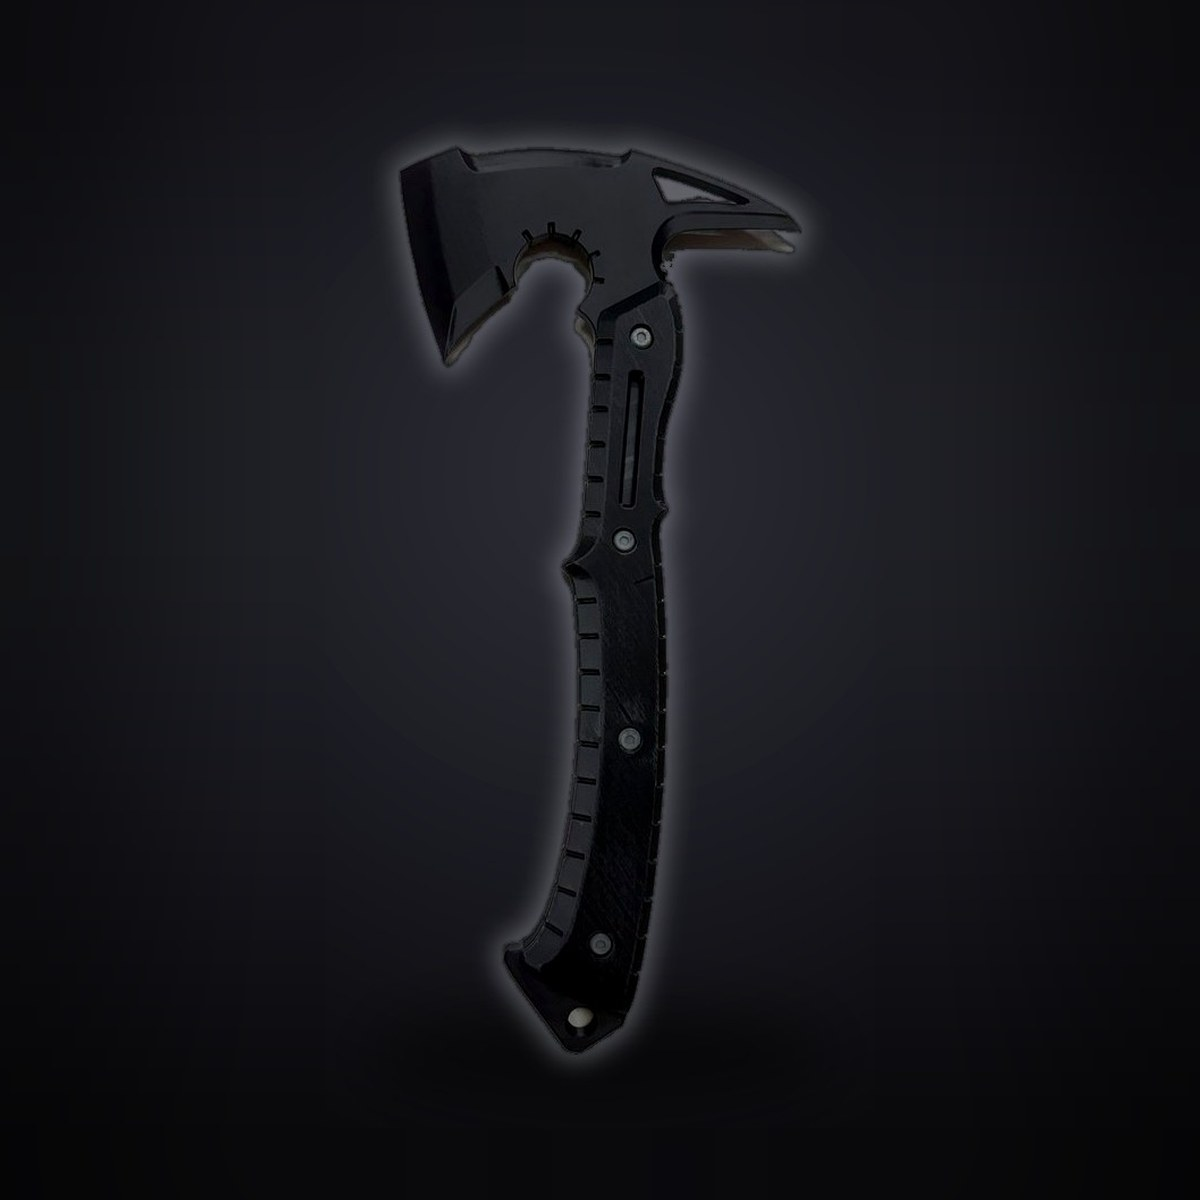
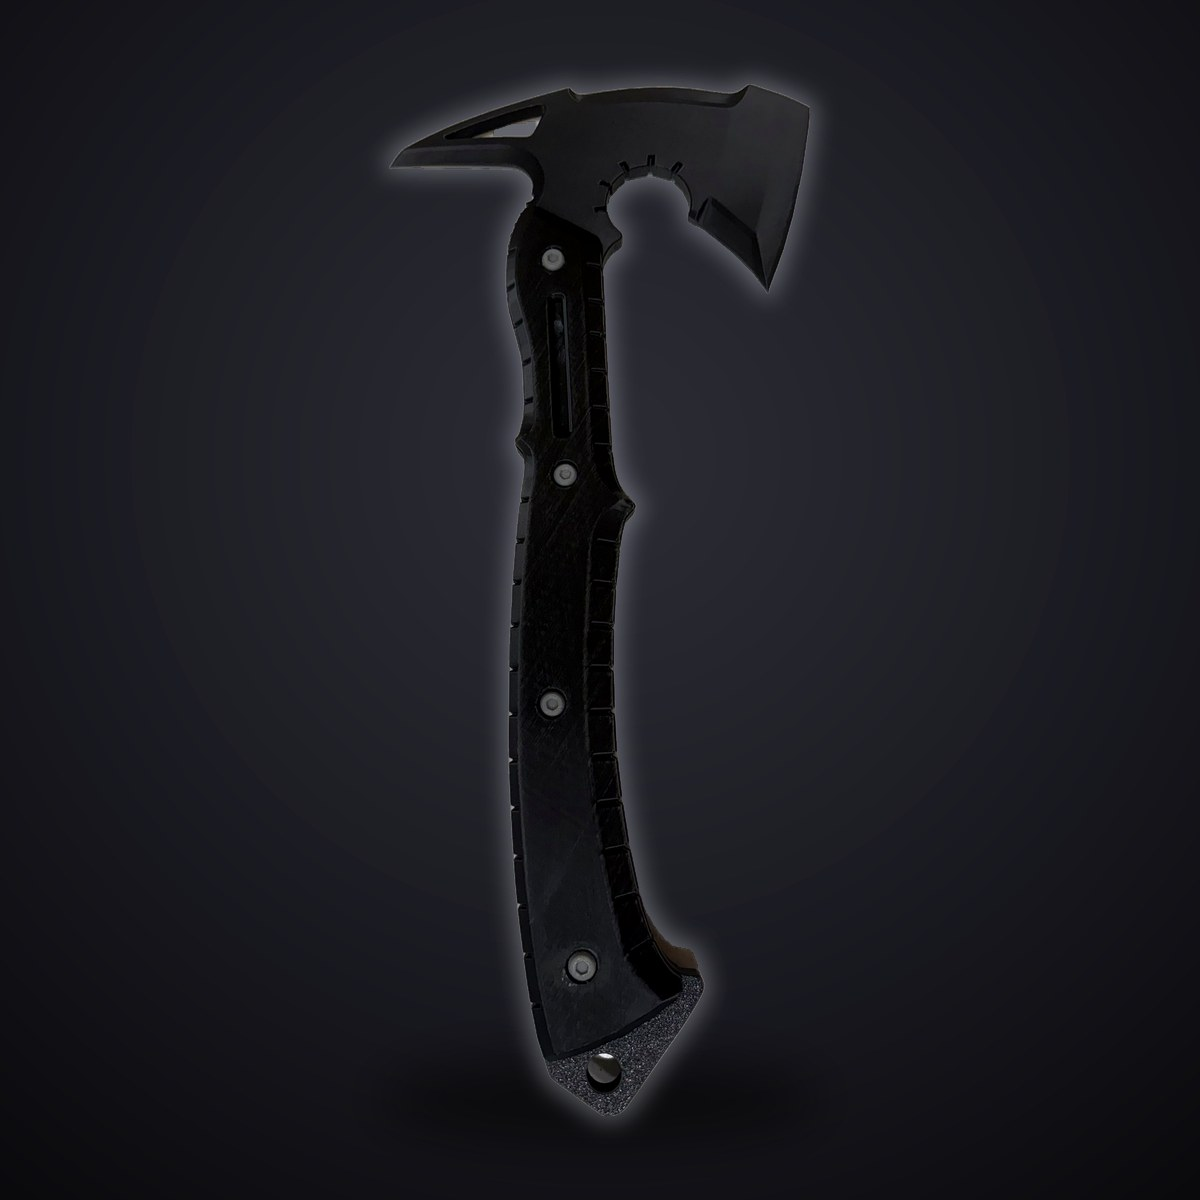
Adiciona ninja e Banguela &amp; Fúria da Luz, e melhora fotos de 4 peças (#14)
* Adiciona páginas de detalhe por peça e interações mais ousadas na home

Consolida a galeria em 21 peças (juntando pares que eram ângulos da
mesma peça) e cria peca.html com carrossel de fotos, descrição e CTA
de orçamento/WhatsApp para cada uma. Home ganha seção "Como funciona"
com scroll pinado, cards com tilt no cursor, hero com parallax e
botões magnéticos — tudo desativado em touch e prefers-reduced-motion.

Claude-Session: https://claude.ai/code/session_01DXCzFekw6qtvuohU6mDCx1

* Adiciona visual estilo "assistente" na hero e na calculadora de orçamento

Cria um sistema de HUD reutilizável (moldura de cantos, varredura de
scan, chip com ponto pulsante) na paleta vermelho/prata da marca. A
hero ganha um chip com relógio ao vivo de Jaraguá do Sul. A calculadora
de orçamento ganha moldura HUD na caixa, uma sequência de "processando"
que narra os passos reais do cálculo antes de revelar o resultado, e o
valor final sobe animado até o total. Tudo cai para o comportamento
instantâneo original em prefers-reduced-motion.

Claude-Session: https://claude.ai/code/session_01DXCzFekw6qtvuohU6mDCx1

* Padroniza todas as fotos da galeria em quadrado, sem cortar nenhuma peça

As 24 fotos tinham 24 proporções diferentes (de 0,456 na taça a 2,31 no
tapete), mas a galeria e a página de peça exibem tudo em quadrado com
object-fit: cover — o que cortava até 57% de algumas peças na exibição.
Era essa a causa real das peças aparecerem "cortadas", não a remoção de
fundo.
[…]

Changed region(s): [[0.3083, 0.0617, 0.7092, 0.9558]]

diff --git a/js/pecas-data.js b/js/pecas-data.js
@@ -9,6 +9,29 @@
 
 const PECAS = [
   {
+    id: "ninja",
+    titulo: "Ninja",
+    categoria: "Personagens & Colecionáveis",
+    imagens: [
+      { src: "assets/img/gallery/ninja.jpg", alt: "Figura de ninja agachado em posição de combate, impressa em 3D em preto, com katana nas costas" },
+      { src: "assets/img/gallery/ninja-lateral.jpg", alt: "Ninja impresso em 3D visto de lado, mostrando a katana e a pose agachada" },
+      { src: "assets/img/gallery/ninja-costas.jpg", alt: "Ninja impresso em 3D visto por trás, mostrando o capuz e a bainha da katana" },
+    ],
+    descricao: "Ninja agachado em posição de combate, com katana nas costas. Impresso em preto, o acabamento acetinado realça as dobras do tecido, o cinto e as amarrações das botas. As três fotos mostram a peça por ângulos diferentes.",
+  },
+  {
+    id: "banguela-furia-luz",
+    titulo: "Banguela & Fúria da Luz",
+    categoria: "Personagens & Colecionáveis",
+    imagens: [
+      { src: "assets/img/gallery/banguela-furia-luz.jpg", alt: "Banguela (preto) e Fúria da Luz (branca) lado a lado sobre base de pedra cinza, impressos em 3D" },
+      { src: "assets/img/gallery/banguela-furia-luz-detalhe.jpg", alt: "Close de Banguela e Fúria da Luz juntos, mostrando os olhos pintados em verde e azul" },
+      { src: "assets/img/gallery/banguela-furia-luz-banguela.jpg", alt: "Banguela impresso em 3D na cor preta, de perfil, com as asas recolhidas" },
+      { src: "assets/img/gallery/banguela-furia-luz-furia.jpg", alt: "Fúria da Luz impressa em 3D na cor branca, com os olhos azuis pintados" },
+    ],
+    descricao: "O casal de dragões de Como Treinar o Seu Dragão — Banguela em preto e a Fúria da Luz em branco — sobre uma base de pedra em cinza. Os olhos são pintados à mão: verde nele, azul nela. Impresso em três cores, com as peças montadas sobre a base.",
+  },
+  {
     id: "trofeu-copa",
     titulo: "Troféu Copa do Mundo",
     categoria: "Decoração & Colecionáveis",
@@ -23,9 +46,11 @@ const PECAS = [
     categoria: "Personagens & Colecionáveis",
     imagens: [
       { src: "assets/img/gallery/kratos-figura.jpg", alt: "Figura do Kratos (God of War) impressa em 3D, pintada em tons terrosos com detalhes em vermelho" },
+      { src: "assets/img/gallery/kratos-rosto.jpg", alt: "Close do rosto do Kratos impresso em 3D, mostrando a barba, a sobrancelha e a marca vermelha pintadas à mão" },
+      { src: "assets/img/gallery/kratos-torso.jpg", alt: "Torso do Kratos impresso em 3D, mostrando a faixa vermelha, o cinto e a ombreira acolchoada" },
       { src: "assets/img/gallery/kratos-busto-natural.jpg", alt: "Busto do Kratos (God of War) impresso em 3D, close-up do rosto e armadura" },
     ],
-    descricao: "Figura do Kratos (God of War), pintada em tons terrosos com detalhes em vermelho. A segunda foto é um close no busto, mostrando o nível de detalhe do rosto, da barba e da armadura.",
+    descricao: "Figura do Kratos (God of War), pintada em tons terrosos com detalhes em vermelho. Os closes mostram o nível de detalhe do rosto, da barba, da faixa vermelha e das fivelas do cinto — tudo pintado à mão aqui no studio.",
   },
   {
     id: "pomo-de-ouro",
@@ -70,8 +95,9 @@ const PECAS = [
     categoria: "Personagens & Colecionáveis",
     imagens: [
       { src: "assets/img/gallery/machado-tatico.jpg", alt: "Réplica do machado do jogo Resident Evil Requiem, impressa em 3D, acabamento preto fosco" },
+      { src: "assets/img/gallery/revolver-machado-duo.jpg", alt: "Réplica do machado ao lado da réplica do revólver de Resident Evil Requiem, impressas em 3D" },
     ],
-    descricao: "Réplica do machado tático do jogo Resident Evil Requiem, acabamento preto fosco com detalhes de parafusos e recortes fiéis ao design original.",
+    descricao: "Réplica do machado tático do jogo Resident Evil Requiem, acabamento preto fosco com detalhes de parafusos e recortes fiéis ao design original. A segunda foto mostra o machado ao lado do revólver do mesmo jogo.",
   },
   {
     id: "suporte-ps5-oni",
@@ -107,8 +133,9 @@ const PECAS = [
     imagens: [
       { src: "assets/img/gallery/revolver-detalhe.jpg", alt: "Réplica do revólver do jogo Resident Evil Requiem, impressa em 3D, acabamento cinza claro perolado" },
       { src: "assets/img/gallery/revolver-perfil.jpg", alt: "Réplica do revólver do jogo Resident Evil Requiem, impressa em 3D, vista de perfil com cabo preto detalhado" },
+      { src: "assets/img/gallery/revolver-machado-duo.jpg", alt: "Réplica do revólver ao lado da réplica do machado de Resident Evil Requiem, impressas em 3D" },
     ],
-    descricao: "Réplica do revólver do jogo Resident Evil Requiem, acabamento cinza perolado com cabo preto detalhado. Duas fotos: uma de frente, outra de perfil.",
+    descricao: "Réplica do revólver do jogo Resident Evil Requiem, acabamento cinza perolado com cabo preto detalhado. Tem foto de frente, de perfil e ao lado do machado do mesmo jogo.",
   },
   {
     id: "torre-pisa",
@@ -143,8 +170,9 @@ const PECAS = [
     categoria: "Decoração",
     imagens: [
       { src: "assets/img/gallery/capivara-bailarina.jpg", alt: "Estatueta de capivara bailarina impressa em 3D, acabamento dourado" },
+      { src: "assets/img/gallery/capivara-bailarina-pecas.jpg", alt: "Capivara bailarina dourada desmontada, mostrando a peça e o pião que a faz girar" },
     ],
-    descricao: "Estatueta de capivara bailarina, acabamento dourado espelhado — um jeito bem-humorado de decorar.",
+    descricao: "Capivara bailarina em acabamento dourado espelhado — um jeito bem-humorado de decorar. A segunda foto mostra a peça desmontada: ela encaixa sobre um pião, então a bailarina roda de verdade.",
   },
   {
     id: "chaveiro-gabi",

diff --git a/index.html b/index.html
@@ -106,6 +106,8 @@
   <section class="marquee" aria-label="Peças impressas pela Zanshin 3D Studio">
     <div class="marquee-track">
       <a href="peca.html?id=kratos" class="marquee-item"><img loading="lazy" decoding="async" src="assets/img/gallery/kratos-figura.jpg" alt="Figura do Kratos impressa em 3D"></a>
+      <a href="peca.html?id=ninja" class="marquee-item"><img loading="lazy" decoding="async" src="assets/img/gallery/ninja.jpg" alt="Figura de ninja agachado impressa em 3D"></a>
+      <a href="peca.html?id=banguela-furia-luz" class="marquee-item"><img loading="lazy" decoding="async" src="assets/img/gallery/banguela-furia-luz.jpg" alt="Banguela e Fúria da Luz impressos em 3D"></a>
       <a href="peca.html?id=trofeu-copa" class="marquee-item"><img loading="lazy" decoding="async" src="assets/img/gallery/trofeu-copa.jpg" alt="Réplica da taça da Copa do Mundo"></a>
       <a href="peca.html?id=batman-armadura" class="marquee-item"><img loading="lazy" decoding="async" src="assets/img/gallery/batman-armadura.jpg" alt="Batman com armadura impresso em 3D"></a>
       <a href="peca.html?id=suporte-ps5-oni" class="marquee-item"><img loading="lazy" decoding="async" src="assets/img/gallery/suporte-controle-ps5.jpg" alt="Suporte de controle PS5 em formato de máscara oni"></a>
@@ -118,6 +120,8 @@
 
       <!-- repetição para a faixa correr sem emenda -->
       <a href="peca.html?id=kratos" class="marquee-item" aria-hidden="true" tabindex="-1"><img loading="lazy" decoding="async" src="assets/img/gallery/kratos-figura.jpg" alt=""></a>
+      <a href="peca.html?id=ninja" class="marquee-item" aria-hidden="true" tabindex="-1"><img loading="lazy" decoding="async" src="assets/img/gallery/ninja.jpg" alt=""></a>
+      <a href="peca.html?id=banguela-furia-luz" class="marquee-item" aria-hidden="true" tabindex="-1"><img loading="lazy" decoding="async" src="assets/img/gallery/banguela-furia-luz.jpg" alt=""></a>
       <a href="peca.html?id=trofeu-copa" class="marquee-item" aria-hidden="true" tabindex="-1"><img loading="lazy" decoding="async" src="assets/img/gallery/trofeu-copa.jpg" alt=""></a>
       <a href="peca.html?id=batman-armadura" class="marquee-item" aria-hidden="true" tabindex="-1"><img loading="lazy" decoding="async" src="assets/img/gallery/batman-armadura.jpg" alt=""></a>
       <a href="peca.html?id=suporte-ps5-oni" class="marquee-item" aria-hidden="true" tabindex="-1"><img loading="lazy" decoding="async" src="assets/img/gallery/suporte-controle-ps5.jpg" alt=""></a>
@@ -274,7 +278,7 @@
       </div>
 
       <p class="gallery-note reveal center">
-        <a href="galeria.html">Ver galeria completa (21 peças) →</a>
+        <a href="galeria.html">Ver galeria completa (23 peças) →</a>
       </p>
     </div>
   </section>

diff --git a/colecionaveis.html b/colecionaveis.html
@@ -73,6 +73,14 @@
       <p class="section-lead reveal center">Fotos reais, sem render nem foto de catálogo. Clique pra ver cada peça em detalhe.</p>
 
       <div class="gallery-grid">
+        <a href="peca.html?id=ninja" class="gallery-item reveal">
+          <img loading="lazy" decoding="async" src="assets/img/gallery/ninja.jpg" alt="Figura de ninja agachado em posição de combate, impressa em 3D em preto, com katana nas costas">
+          <span class="gallery-item-caption">Ninja</span>
+        </a>
+        <a href="peca.html?id=banguela-furia-luz" class="gallery-item reveal">
+          <img loading="lazy" decoding="async" src="assets/img/gallery/banguela-furia-luz.jpg" alt="Banguela (preto) e Fúria da Luz (branca) lado a lado sobre base de pedra cinza, impressos em 3D">
+          <span class="gallery-item-caption">Banguela &amp; Fúria da Luz</span>
+        </a>
         <a href="peca.html?id=kratos" class="gallery-item reveal">
           <img loading="lazy" decoding="async" src="assets/img/gallery/kratos-figura.jpg" alt="Figura do Kratos (God of War) impressa em 3D, pintada em tons terrosos com detalhes em vermelho">
           <span class="gallery-item-caption">Kratos</span>
@@ -116,7 +124,7 @@
       </div>
 
       <p class="gallery-note reveal center">
-        <a href="galeria.html">Ver a galeria completa (21 peças) →</a>
+        <a href="galeria.html">Ver a galeria completa (23 peças) →</a>
       </p>
     </div>
   </section>

diff --git a/galeria.html b/galeria.html
@@ -63,6 +63,14 @@
         Clique em uma peça pra ver em detalhe (e mais fotos, quando tem mais de um ângulo).
       </p>
       <div class="gallery-grid">
+        <a href="peca.html?id=ninja" class="gallery-item reveal">
+          <img loading="lazy" decoding="async" src="assets/img/gallery/ninja.jpg" alt="Figura de ninja agachado em posição de combate, impressa em 3D em preto, com katana nas costas">
+          <span class="gallery-item-caption">Ninja</span>
+        </a>
+        <a href="peca.html?id=banguela-furia-luz" class="gallery-item reveal">
+          <img loading="lazy" decoding="async" src="assets/img/gallery/banguela-furia-luz.jpg" alt="Banguela (preto) e Fúria da Luz (branca) lado a lado sobre base de pedra cinza, impressos em 3D">
+          <span class="gallery-item-caption">Banguela &amp; Fúria da Luz</span>
+        </a>
         <a href="peca.html?id=trofeu-copa" class="gallery-item reveal">
           <img loading="lazy" decoding="async" src="assets/img/gallery/trofeu-copa.jpg" alt="Réplica da taça da Copa do Mundo impressa em 3D, dourada com base verde">
           <span class="gallery-item-caption">Troféu Copa do Mundo</span>

diff --git a/empresas.html b/empresas.html
@@ -93,7 +93,7 @@
       <p class="landing-note quote-disclaimer reveal center">Transparência: nosso portfólio publicado é de peças decorativas e colecionáveis — ainda não temos cases técnicos de clientes para mostrar aqui. Me mande o desenho, a amostra ou o arquivo que eu avalio a viabilidade e o material antes de qualquer compromisso.</p>
 
       <p class="gallery-note reveal center">
-        <a href="galeria.html">Ver a galeria completa (21 peças) →</a>
+        <a href="galeria.html">Ver a galeria completa (23 peças) →</a>
       </p>
     </div>
   </section>

diff --git a/presentes.html b/presentes.html
@@ -100,7 +100,7 @@
       </div>
 
       <p class="gallery-note reveal center">
-        <a href="galeria.html">Ver a galeria completa (21 peças) →</a>
+        <a href="galeria.html">Ver a galeria completa (23 peças) →</a>
       </p>
     </div>
   </section>

diff --git a/gamer.html b/gamer.html
@@ -92,7 +92,7 @@
       </div>
 
       <p class="gallery-note reveal center">
-        <a href="galeria.html">Ver a galeria completa (21 peças) →</a>
+        <a href="galeria.html">Ver a galeria completa (23 peças) →</a>
       </p>
     </div>
   </section>
